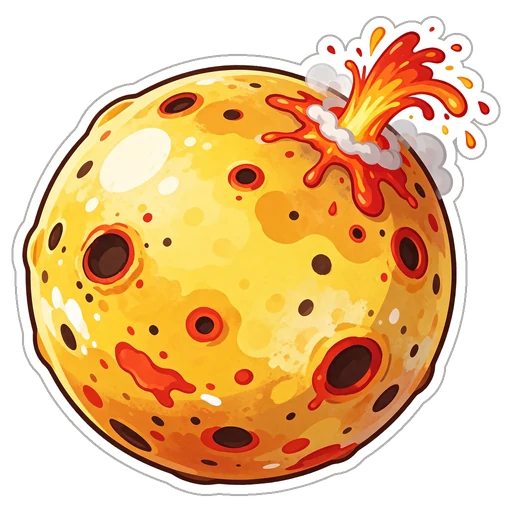
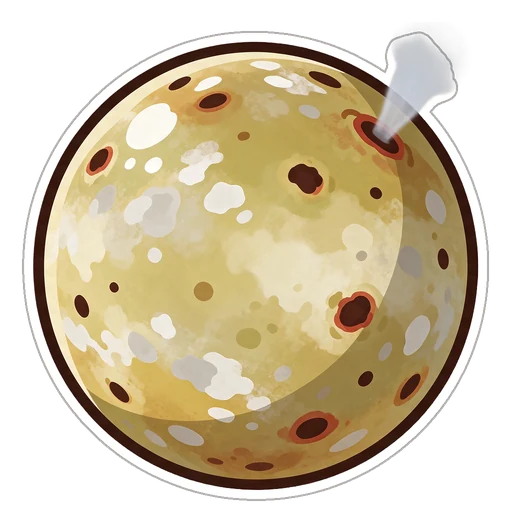
Corpos do espaço: refaz Io igual à foto da Galileo e fecha o registro de verificação (#14)
* Novo álbum: Corpos do espaço (52 figurinhas)

Tema espaco com 52 corpos reais: estrelas, planetas, planetas anões, luas, asteroides, cometas, exoplanetas, objetos extremos, nebulosas e galáxias. Raridade (3 ultra e 5 raras) e verso com nome, localização, distância, tamanho, temperatura e curiosidade, conferidos em fontes oficiais (NASA, JPL, ESA, ESO). Cache do service worker v6. A migração do banco fica em migracoes/2026-11-13-album-espaco.sql.

Claude-Session: https://claude.ai/code/session_014sDEFwooAoyXychsffZ8Em

* Corpos do espaço: corrige dados do verso após conferência com fontes oficiais

- Io: "centenas" de vulcões (NASA não confirma "mais de 400")
- Europa: cerca do dobro da água dos oceanos da Terra (NASA)
- Sirius B: massa de cerca de 1 Sol
- Pulsar do Caranguejo: colher de chá com cerca de 1 bilhão de toneladas (NASA)
- SN 1987A: supernova mais brilhante vista desde 1604
- Galáxia do Redemoinho: Lord Rosse desenhou o redemoinho em 1845 (sem "primeira galáxia espiral")
- Pilares da Criação: 6.500 a 7.000 anos-luz; Kepler-452b: 1.400 a 1.800 anos-luz
- Jápeto 3,6 milhões de km, Miranda 130 mil km (JPL); Mimas 395 km (NASA)
- Deimos e Vesta: curiosidades sem fonte trocadas por fatos da NASA
- Plutão: cerca de -230 °C e gelo de nitrogênio e metano; Makemake: gelo de metano

Claude-Session: https://claude.ai/code/session_014sDEFwooAoyXychsffZ8Em

* Corpos do espaço: refaz 51 Pegasi b e Sagitário A* e ajusta textos sem fonte
[…]

diff --git a/VERIFICACAO-ESPACO.md b/VERIFICACAO-ESPACO.md
@@ -42,7 +42,7 @@ Cada figurinha foi comparada lado a lado com uma imagem oficial (foto ou, quando
 | 19 | Lua | NASA | bate | N, F, J |
 | 20 | Fobos | NASA, MRO | bate (formato e cratera Stickney; a cor da foto é mais marrom) | N, J |
 | 21 | Deimos | NASA, MRO PIA11826 | bate (formato e crateras; a cor da foto é mais bege) | N, J |
-| 22 | Io | NASA, Galileo (a página só traz mapa e gráfico, sem foto global) | sem foto global utilizável; cores e vulcões seguem o texto oficial | N, J |
+| 22 | Io | NASA, Galileo PIA00282 (disco inteiro) | refeita (era amarelo saturado com anéis vermelhos enormes; agora amarelo-oliva com manchas claras e pontos escuros) | N, J |
 | 23 | Europa | NASA, Galileo | bate | N, J |
 | 24 | Ganimedes | NASA, Galileo | bate | N, J |
 | 25 | Calisto | NASA, Voyager e Galileo | bate | N, J |
@@ -79,9 +79,8 @@ Cada figurinha foi comparada lado a lado com uma imagem oficial (foto ou, quando
 - **Eros** (26,7 milhões de km em 31/01/2012) e **Halley** (62,4 milhões de km em 11/04/1986): lidos do JPL Horizons.
 - **Hale-Bopp** (1,315 UA, 197 milhões de km): página oficial do JPL.
 
-## O que não tem imagem oficial utilizável
-- **Io:** a NASA só publica mapas e gráficos na página; a aparência segue o texto oficial (enxofre amarelo, vulcões).
-- Haumea, Makemake, Pulsar do Caranguejo e Sirius B foram retiradas do álbum justamente por não terem imagem oficial.
+## Figurinhas retiradas por não terem imagem oficial utilizável
+Haumea, Makemake, Pulsar do Caranguejo e Sirius B saíram do álbum (PR #11) e foram trocadas por Réia, Tétis, Nebulosa do Caranguejo e Nebulosa da Hélice, que têm foto oficial. Com isso, as 52 figurinhas têm foto ou ilustração oficial para comparação.
 
 ## Origens de nomes que foram retiradas do verso por falta de fonte oficial
 Io, Calisto, Lua, Via Láctea, Andrômeda, Sirius e Polaris.
